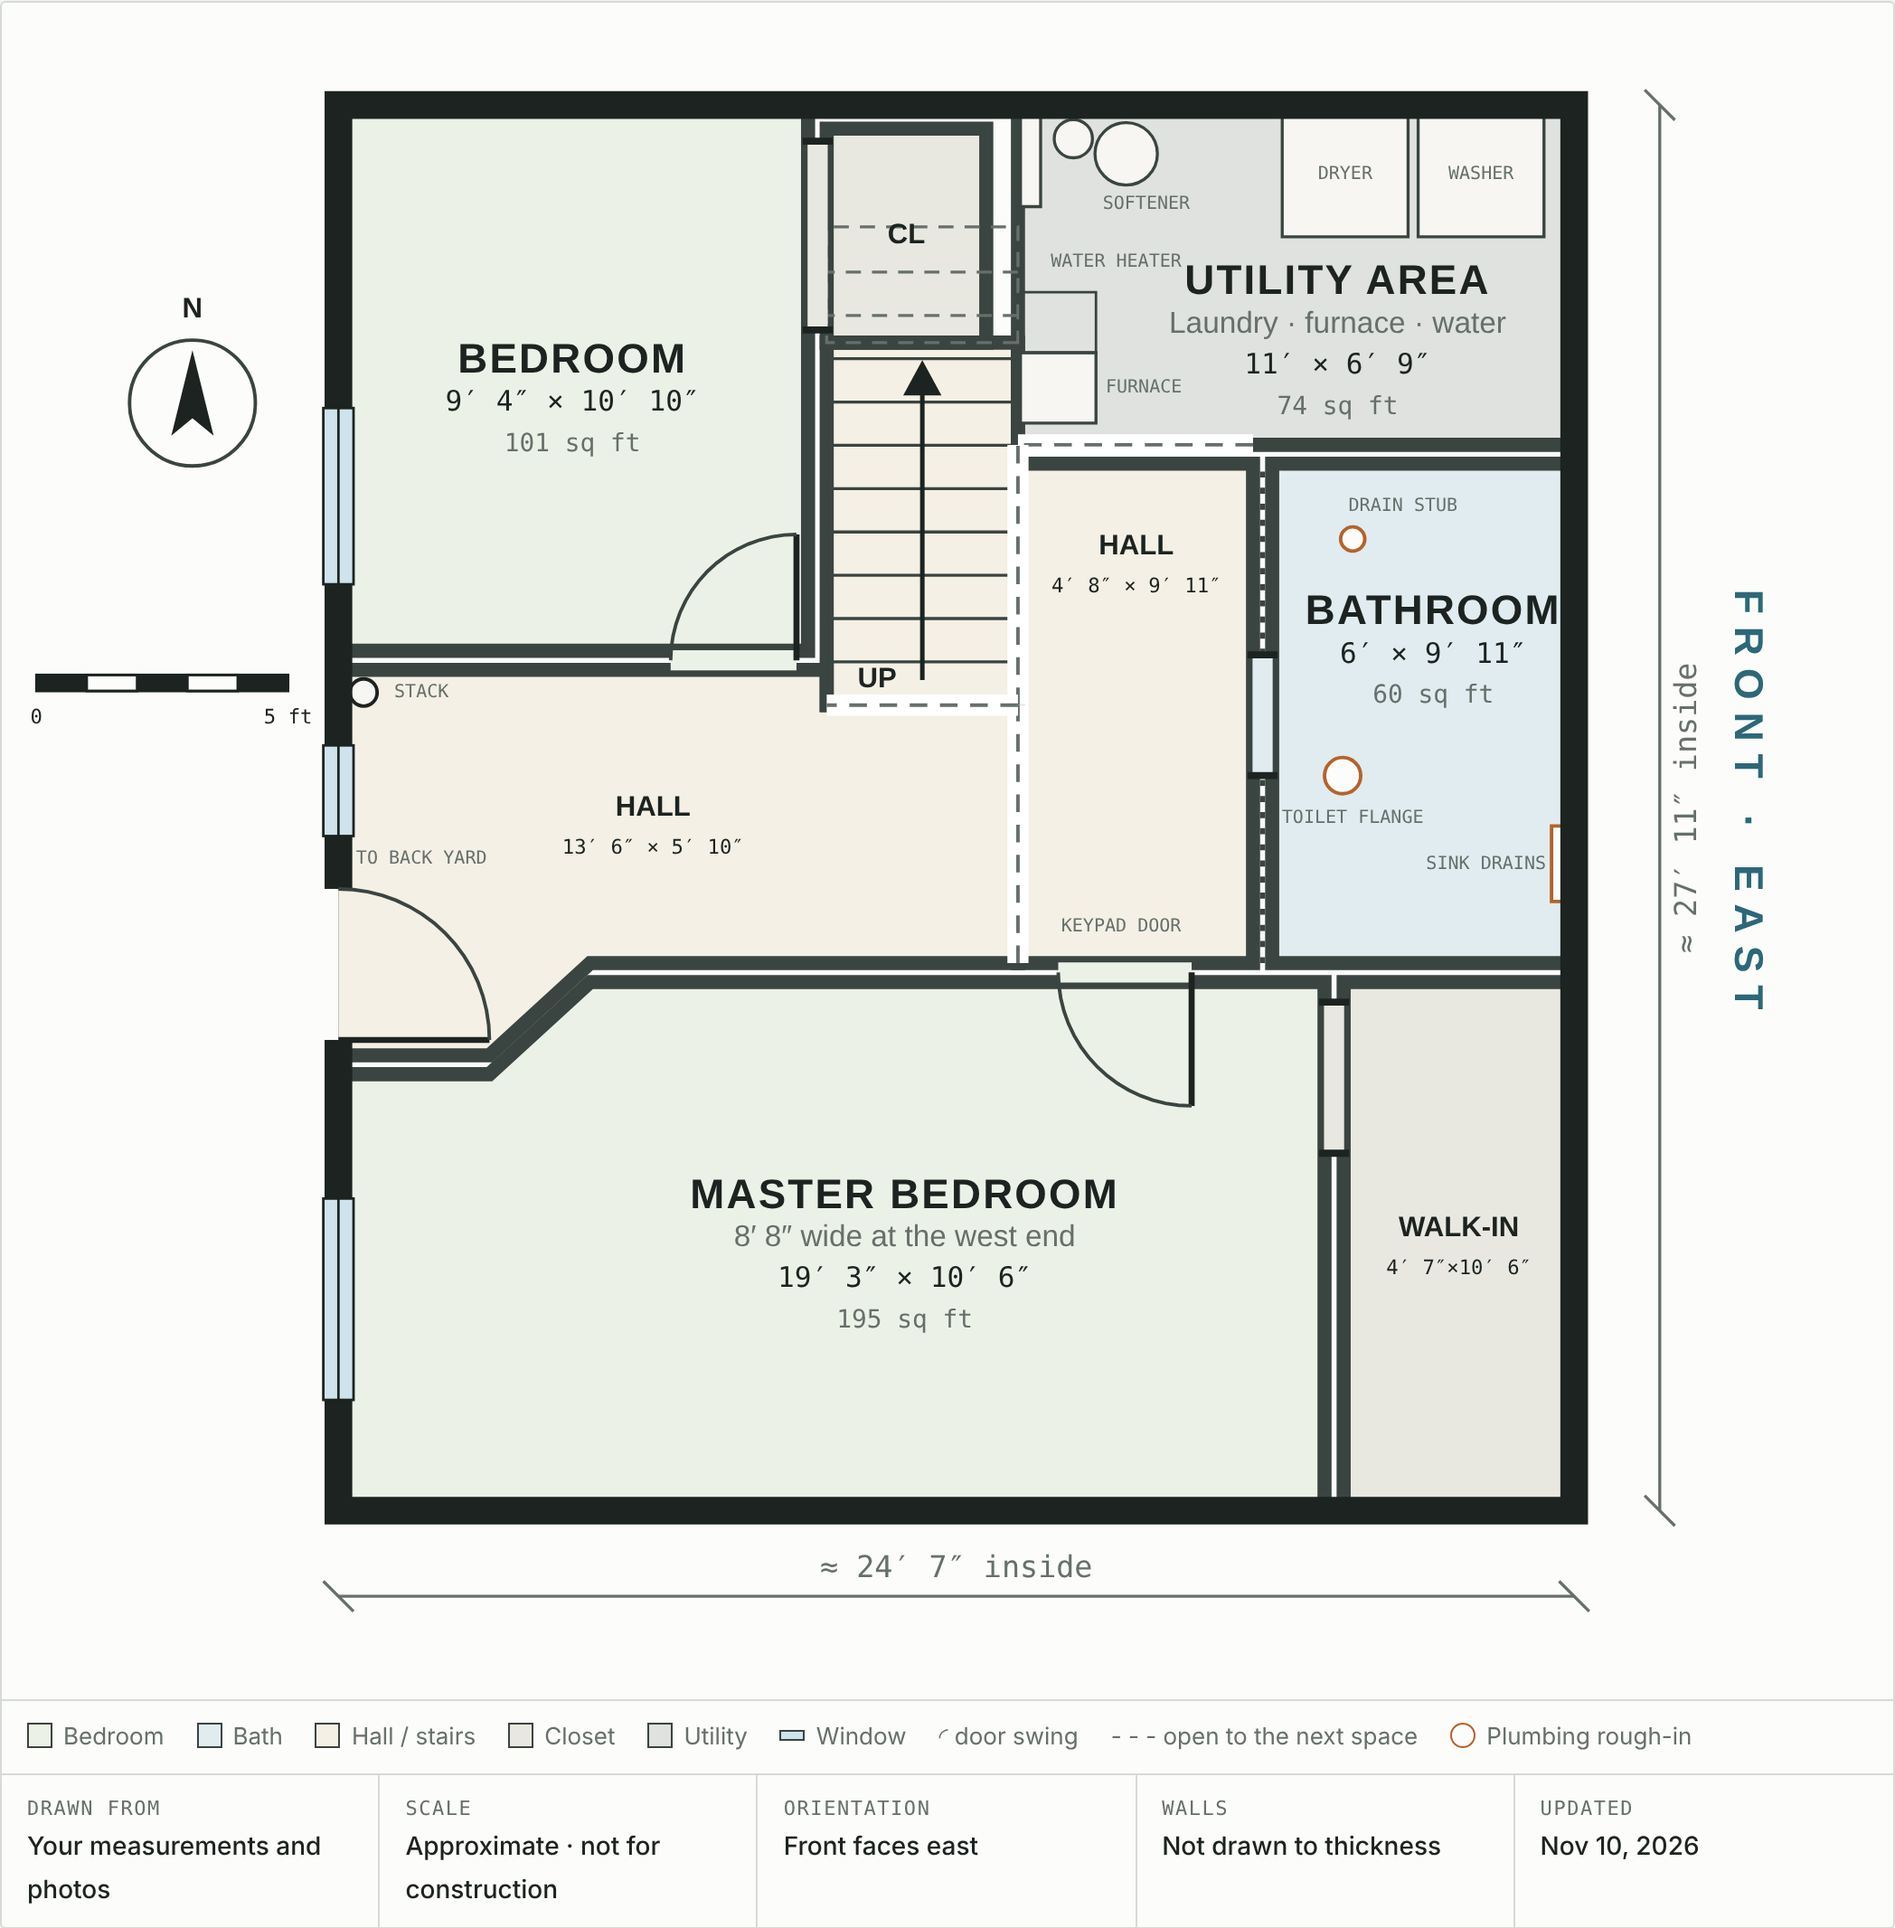
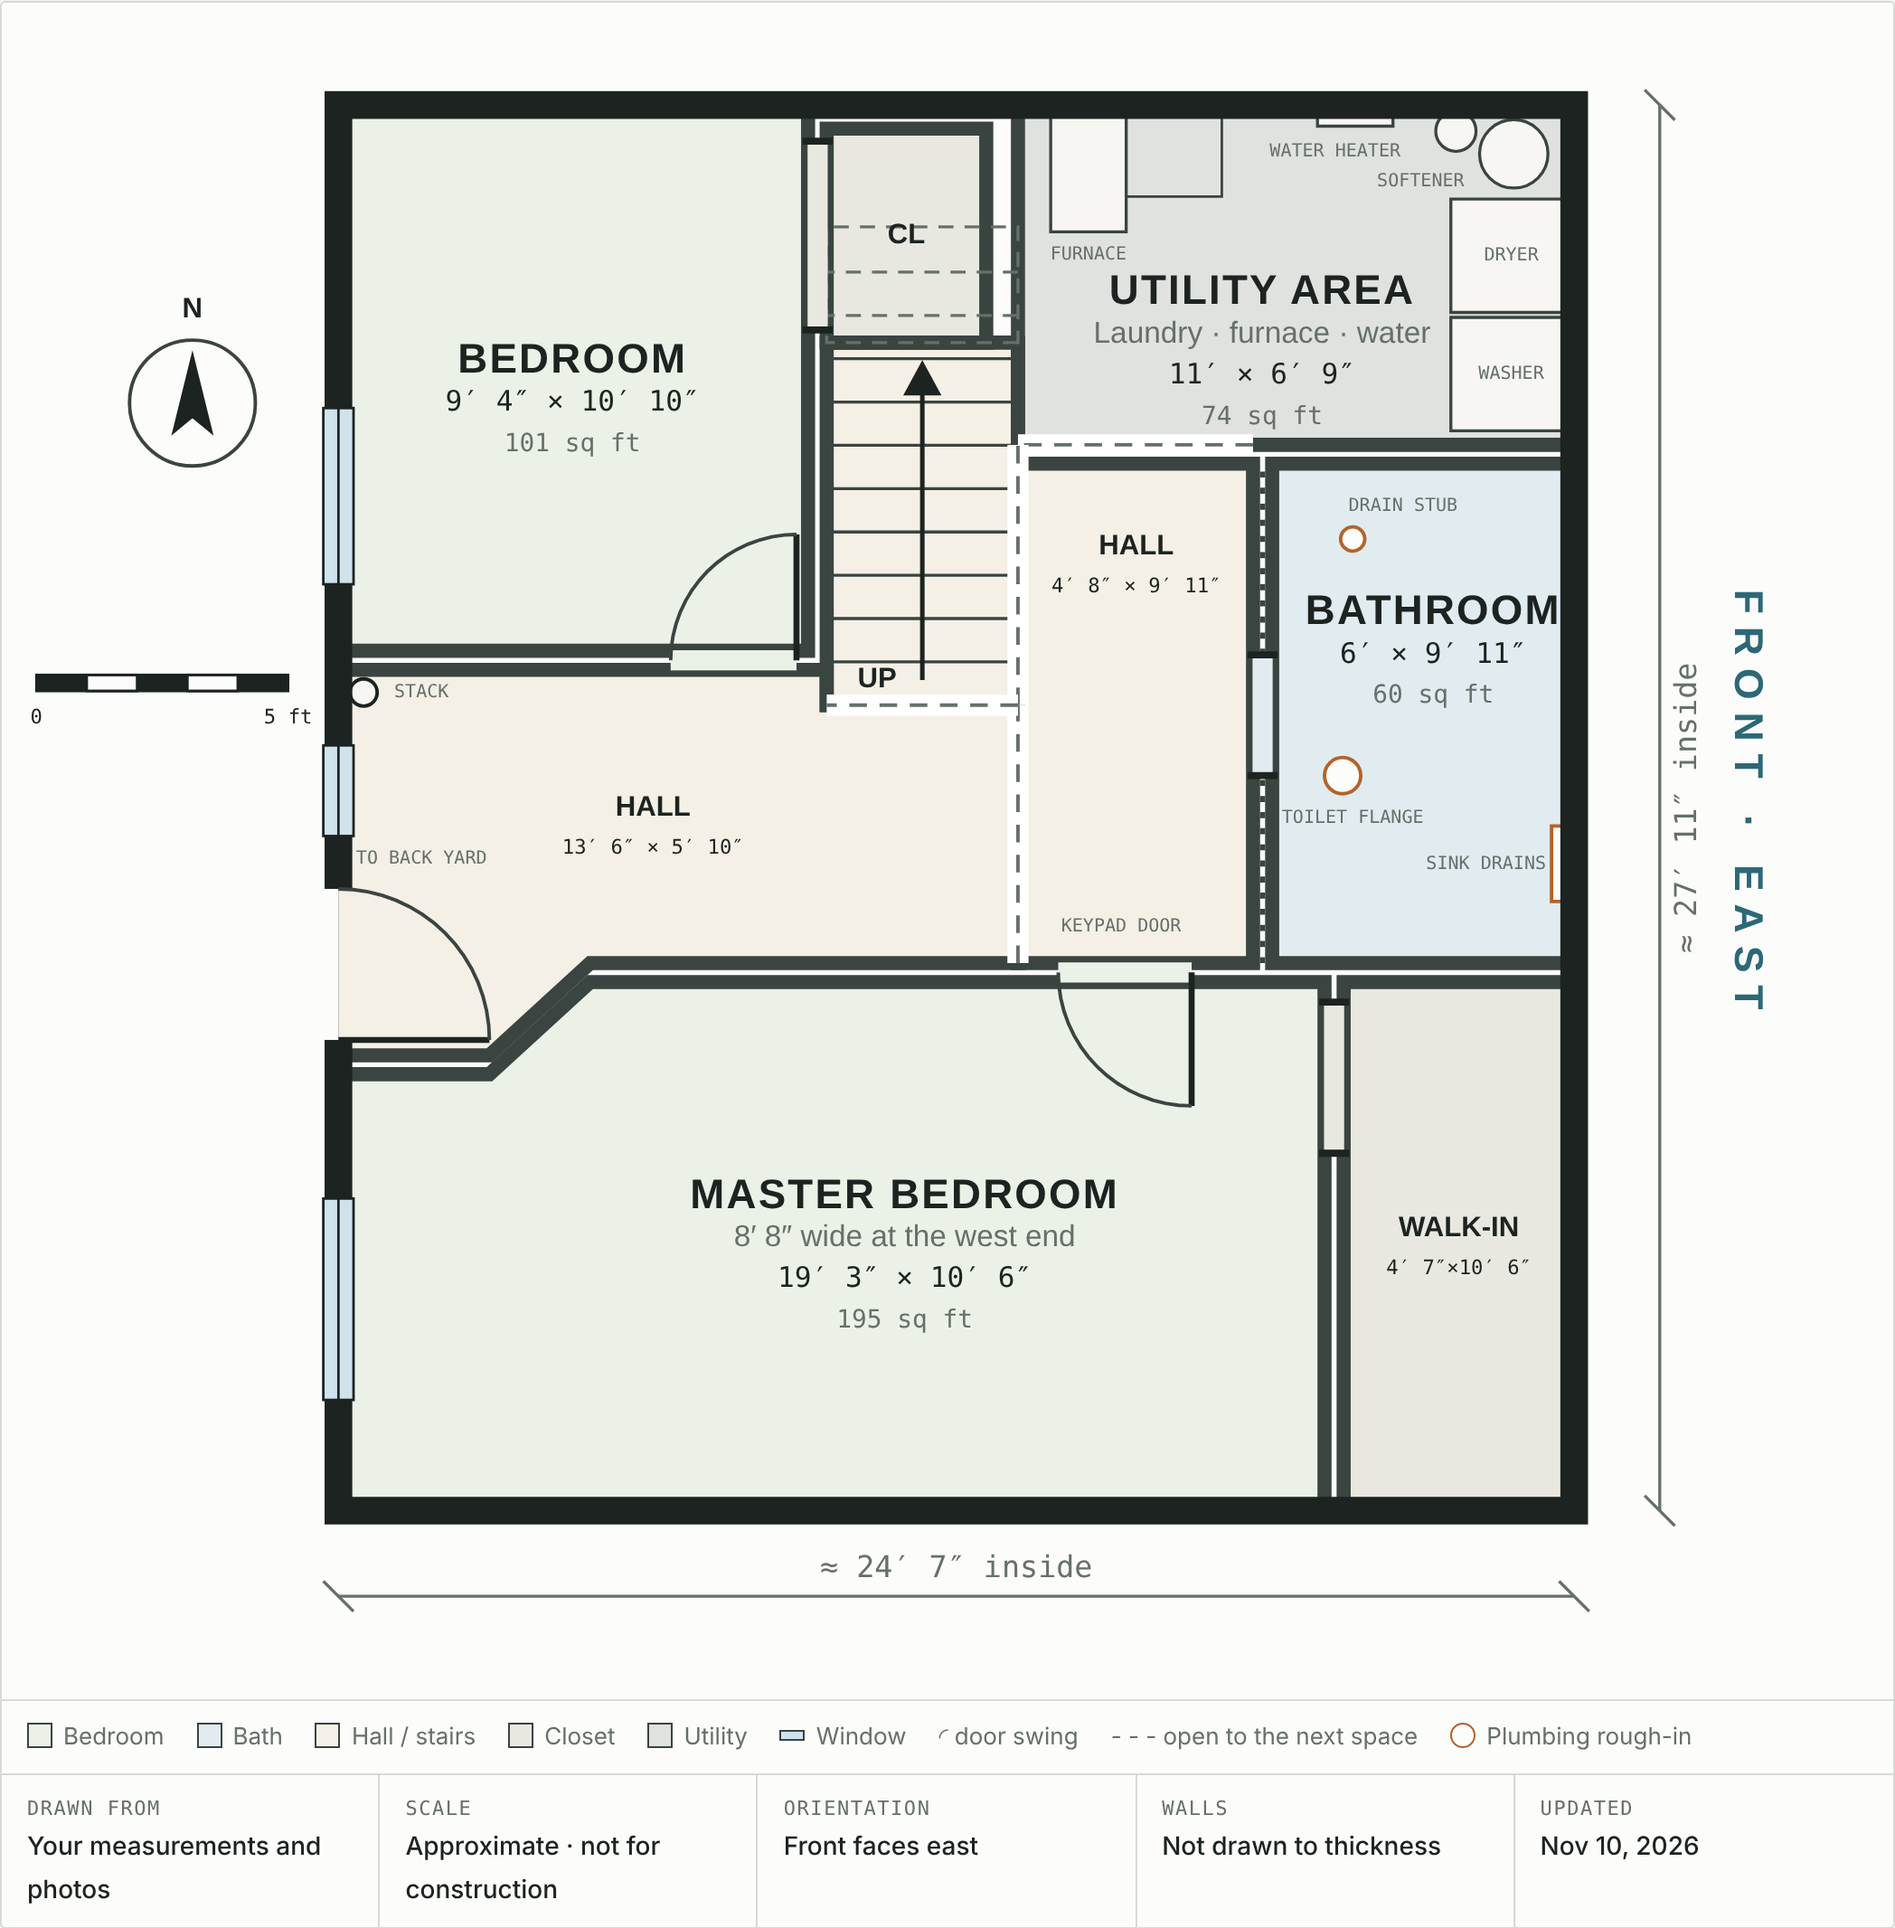
Basement plan: laundry on the east wall, furnace and softener on the north
Moves the washer and dryer to the east (front) wall and the furnace,
plenum, water heater and softener to the north wall, as described, and
updates the photo and existing-conditions notes to match.

Claude-Session: https://claude.ai/code/session_014gWw3y8aufUYyZbL2xmfvZ

Changed region(s): [[0.5272, 0.0619, 0.8373, 0.2167]]

diff --git a/floor-plan/basement/index.html b/floor-plan/basement/index.html
@@ -190,7 +190,7 @@ tr.sub td{color:var(--muted);border-bottom:0}
         <li class="ask"><h3>The flue upstairs</h3>
           <p>The furnace and the wall-hung water heater both vent through plastic pipe. If nothing else uses the metal flue in the chase beside bedroom 2, the chase can come out rather than be boxed in. Check what the metal pipe rising behind the dryer connects to.</p></li>
         <li class="ask"><h3>Placed from photos</h3>
-          <p>The back door, the windows, the bathroom rough-in and the furnace, water heater, softener, washer and dryer are placed from the photos. The bathroom's walls are open framing, and it has no door yet; the opening is drawn where the photo shows a wider gap.</p></li>
+          <p>The washer and dryer are on the east wall and the furnace and softener on the north wall, as you described; their exact spots along those walls, the back door, the windows and the bathroom rough-in are placed from the photos. The bathroom's walls are open framing, and it has no door yet; the opening is drawn where the photo shows a wider gap.</p></li>
         <li class="ok"><h3>What lines up</h3>
           <p>Front to back on the front side: master 10′ 6″ + bathroom 9′ 11″ + utility 6′ 9″ = 27′ 2″. On the back side: master 10′ 6″ + long hall 5′ 10″ + bedroom 10′ 10″ = 27′ 2″. Across, the hall side comes to about 24′ 6″ and the master side to about 24′ 3″. With walls, that's about 24′ 7″ × 27′ 11″ inside, which fits under the 25′ × 28′ 9″ main floor.</p></li>
       </ul>
@@ -211,7 +211,7 @@ tr.sub td{color:var(--muted);border-bottom:0}
     {id:'bath',   name:'Bathroom', type:'wet', g:{x:0,y:10.875,w:6,h:9.92}, d:[72,119], mode:'full', lab:[2.8,17.0]},
     {id:'hall1',  name:'Hall', type:'circ', g:{x:6.38,y:10.875,w:4.67,h:9.92}, d:[56,119], mode:'hall', lab:[8.7,18.6]},
     {id:'hall2',  name:'Long hall', type:'circ', poly:[[11.05,10.875],[19.55,10.875],[21.55,9.045],[24.55,9.045],[24.55,16.7],[14.85,16.7],[14.85,16.0],[11.05,16.0]], d:[162,70], mode:'hall', lab:[18.3,13.4]},
-    {id:'util',   name:'Utility area', sub:'Laundry · furnace · water', type:'garage', g:{x:0,y:21.17,w:11.05,h:6.75}, d:[132,81], mode:'full', lab:[4.7,23.15]},
+    {id:'util',   name:'Utility area', sub:'Laundry · furnace · water', type:'garage', g:{x:0,y:21.17,w:11.05,h:6.75}, d:[132,81], mode:'full', lab:[6.2,22.95]},
     {id:'stair',  name:'Stairs', type:'circ', g:{x:11.05,y:16.0,w:3.8,h:7.2}, mode:'none'},
     {id:'bcl',    name:'Bedroom closet', type:'store', g:{x:11.68,y:23.2,w:3.17,h:4.25}, d:[38,51], mode:'cl'},
     {id:'bed',    name:'Bedroom', type:'bed', g:{x:15.22,y:17.08,w:9.33,h:10.83}, d:[112,130], mode:'full', lab:[19.9,22.0]}
@@ -294,12 +294,12 @@ tr.sub td{color:var(--muted);border-bottom:0}
     s += rectF(0.05, 0.45, 12.1, 13.6, 'rough') + tiny(1.75, 12.85, 'SINK DRAINS');
     s += circF(4.6, 14.6, 0.36, 'rough') + tiny(4.4, 13.75, 'TOILET FLANGE');
     s += circF(4.4, 19.3, 0.24, 'rough') + tiny(3.4, 19.95, 'DRAIN STUB');
-    // utility: washer and dryer on the north wall, softener, wall-hung water heater, furnace and supply plenum
-    s += rectF(0.6, 3.1, 25.3, 27.85, 'fix') + tiny(1.85, 26.55, 'WASHER');
-    s += rectF(3.3, 5.8, 25.3, 27.85, 'fix') + tiny(4.55, 26.55, 'DRYER');
-    s += circF(8.9, 26.95, 0.62, 'fix') + circF(9.95, 27.25, 0.38, 'fix') + tiny(8.5, 25.95, 'SOFTENER');
-    s += rectF(10.6, 11.0, 25.9, 27.7, 'fix') + tiny(9.1, 24.8, 'WATER HEATER');
-    s += rectF(9.5, 11.0, 21.6, 23.0, 'fix') + rectF(9.5, 11.0, 23.0, 24.2, 'fix2') + tiny(8.55, 22.3, 'FURNACE');
+    // utility: washer and dryer on the east (front) wall; softener, wall-hung water heater, supply plenum and furnace along the north wall
+    s += rectF(0.05, 2.45, 21.45, 23.7, 'fix') + tiny(1.25, 22.575, 'WASHER');
+    s += rectF(0.05, 2.45, 23.8, 26.05, 'fix') + tiny(1.25, 24.925, 'DRYER');
+    s += circF(1.2, 26.95, 0.68, 'fix') + circF(2.35, 27.4, 0.4, 'fix') + tiny(3.05, 26.4, 'SOFTENER');
+    s += rectF(3.6, 5.1, 27.5, 27.9, 'fix') + tiny(4.75, 27.0, 'WATER HEATER');
+    s += rectF(7.0, 8.9, 26.1, 27.9, 'fix2') + rectF(8.9, 10.4, 25.4, 27.9, 'fix') + tiny(9.65, 24.95, 'FURNACE');
     // main drain stack, straight down from the upstairs bathroom
     s += circF(24.05, 16.25, 0.27, 'stack') + tiny(22.9, 16.25, 'STACK');
     // bathroom's west wall is open framing for now

diff --git a/existing-conditions.md b/existing-conditions.md
@@ -309,7 +309,7 @@ Measured and photographed November 9–10, 2026. The [basement plan](floor-plan/
 | **Walk-in closet** *(photos 27, 28)* | Drywall hung but not finished. The south end wall is framed and insulated. **Old dark square floor tiles** are still down over most of the floor. |
 | **Bedroom** *(photos 22, 23, 24)* | The only finished room: painted drywall, a textured ceiling and a ceiling fan with lights. A slider window on the west wall looks out under the deck. The carpet is up, showing a grid of **black adhesive** from old square tiles. |
 | **Bathroom** *(photo 21)* | Framed with open studs, no drywall and no door yet. The back wall is the foundation. Rough-in: a double sink drain with supply stubs on the back wall, a toilet flange with a test cap, a capped drain stub that's probably for a shower, and wiring and boxes. |
-| **Utility area** *(photos 19, 20, 31)* | A **high-efficiency gas furnace** vented with two plastic pipes, with its supply plenum; a **wall-hung tankless water heater**; a water softener with a brine tank; a whole-house filter; a condensate pump; the **washer and dryer** on the north wall with a laundry standpipe. A metal pipe rises behind the dryer into the joists. Open studs on the concrete walls, open joists, and a concrete floor with old tile-adhesive trowel marks and patches. |
+| **Utility area** *(photos 19, 20, 31)* | Along the **north wall**: a **high-efficiency gas furnace** vented with two plastic pipes, with its supply plenum; a **wall-hung tankless water heater**; a whole-house filter; and a water softener with a brine tank. A condensate pump sits on the floor. The **washer and dryer** are on the **east (front) wall**, with a laundry standpipe, and a metal pipe rises behind the dryer into the joists. Open studs on the concrete walls, open joists, and a concrete floor with old tile-adhesive trowel marks and patches. |
 | **Halls** *(photos 29–33)* | Concrete floor with patches and some old adhesive. The long hall ends at the back (west) wall with a **door to the back yard**, a small hopper window that looks out under the deck, and the **main drain stack**, which comes straight down from the upstairs bathroom. A round metal duct and a galvanized supply trunk run along the ceiling. There's a wood post under a beam near the bottom of the stairs, and one framed wall has a plywood patch. |
 | **Ceilings** | Open joists everywhere except the bedroom, with exposed wiring. |
 

diff --git a/photos/README.md b/photos/README.md
@@ -256,16 +256,16 @@ The basement photos were taken November 9–10, 2026. The [basement plan](../flo
 ### 19 · Utility area, laundry wall
 ![Utility area, laundry wall](19-basement-utility-laundry-wall.jpg)
 
-**Camera:** in the hall, looking north into the utility area.
+**Camera:** in the utility area, looking east toward the front wall.
 
-- **Left:** the wall-hung tankless water heater, a whole-house filter, the water softener with its brine tank, and a condensate pump on the floor.
-- **Far wall:** the dryer and the top-load washer on the north foundation wall, with the laundry standpipe and a metal pipe rising behind the dryer into the joists.
+- **Left (north wall):** the wall-hung tankless water heater, a whole-house filter, the water softener with its brine tank, and a condensate pump on the floor.
+- **Far wall (east):** the dryer and the top-load washer, with the laundry standpipe and a metal pipe rising behind the dryer into the joists.
 - **Floor and ceiling:** concrete with old tile-adhesive trowel marks and patches; open joists with wiring.
 
 ### 20 · Utility area, furnace
 ![Utility area, furnace](20-basement-utility-furnace.jpg)
 
-**Camera:** in the utility area, looking at the furnace.
+**Camera:** in the utility area, looking north at the furnace.
 
 - The high-efficiency gas furnace with its two plastic vent pipes, the galvanized supply plenum beside it, and the water heater at the right edge.
 - A drywalled wall behind it with a small framed opening low on the left.
